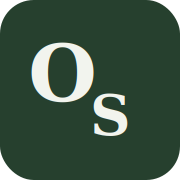
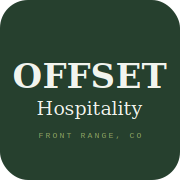
Added Open Graphs and Meta Data
New content on Meal Prep page and flavicons updated

diff --git a/_includes/head.html b/_includes/head.html
@@ -1,7 +1,20 @@
 <head>
 <meta charset="UTF-8">
 <meta name="viewport" content="width=device-width, initial-scale=1.0">
-<title>{{ page.title }}</title>
+<title>{{ site.data.titles[page.name] }}</title>
+<meta name="description" content="{{ site.data.descriptions[page.name] }}">
+<meta property="og:type" content="website">
+<meta property="og:site_name" content="Offset Hospitality">
+<meta property="og:title" content="{{ site.data.titles[page.name] }}">
+<meta property="og:description" content="{{ site.data.descriptions[page.name] }}">
+<meta property="og:url" content="{{ page.url | absolute_url }}">
+<meta property="og:image" content="{{ '/og-image.png' | absolute_url }}">
+<meta property="og:image:width" content="1200">
+<meta property="og:image:height" content="630">
+<meta name="twitter:card" content="summary_large_image">
+<meta name="twitter:title" content="{{ site.data.titles[page.name] }}">
+<meta name="twitter:description" content="{{ site.data.descriptions[page.name] }}">
+<meta name="twitter:image" content="{{ '/og-image.png' | absolute_url }}">
 <link rel="icon" type="image/svg+xml" href="{{ '/favicon.svg' | relative_url }}">
 <link rel="icon" type="image/png" sizes="32x32" href="{{ '/favicon-32.png' | relative_url }}">
 <link rel="icon" type="image/png" sizes="16x16" href="{{ '/favicon-16.png' | relative_url }}">

diff --git a/index.html b/index.html
@@ -1,6 +1,5 @@
 ---
 nav: home
-title: Offset Hospitality — Private Chef, Denver
 ---
 <!DOCTYPE html>
 <html lang="en">

diff --git a/mealprep.html b/mealprep.html
@@ -1,6 +1,5 @@
 ---
 nav: mealprep
-title: Meal Prep — Offset Hospitality
 ---
 <!DOCTYPE html>
 <html lang="en">

diff --git a/contact.html b/contact.html
@@ -1,6 +1,5 @@
 ---
 nav: contact
-title: Contact — Offset Hospitality
 ---
 <!DOCTYPE html>
 <html lang="en">

diff --git a/gallery.html b/gallery.html
@@ -1,6 +1,5 @@
 ---
 nav: gallery
-title: Gallery — Offset Hospitality
 ---
 <!DOCTYPE html>
 <html lang="en">

diff --git a/cancellation.html b/cancellation.html
@@ -1,5 +1,4 @@
 ---
-title: Cancellation Policy — Offset Hospitality
 ---
 <!DOCTYPE html>
 <html lang="en">

diff --git a/about.html b/about.html
@@ -1,6 +1,5 @@
 ---
 nav: about
-title: About — Offset Hospitality
 ---
 <!DOCTYPE html>
 <html lang="en">

diff --git a/menus.html b/menus.html
@@ -1,6 +1,5 @@
 ---
 nav: menus
-title: Menus — Offset Hospitality
 ---
 <!DOCTYPE html>
 <html lang="en">

diff --git a/faq.html b/faq.html
@@ -1,6 +1,5 @@
 ---
 nav: faq
-title: FAQ — Offset Hospitality
 ---
 <!DOCTYPE html>
 <html lang="en">
